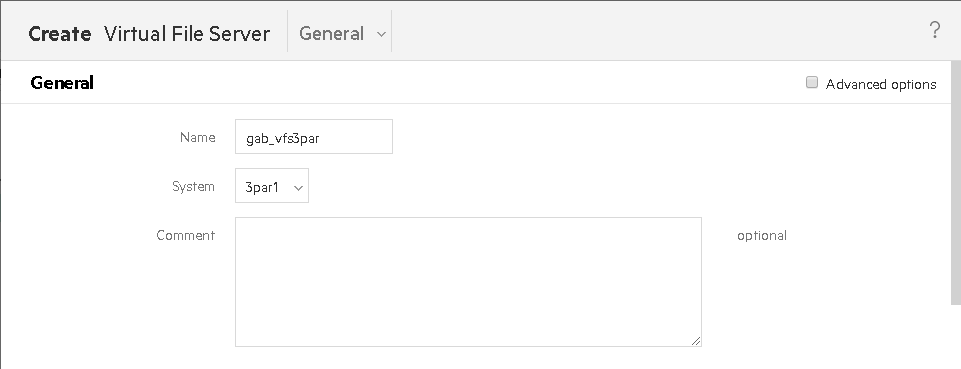
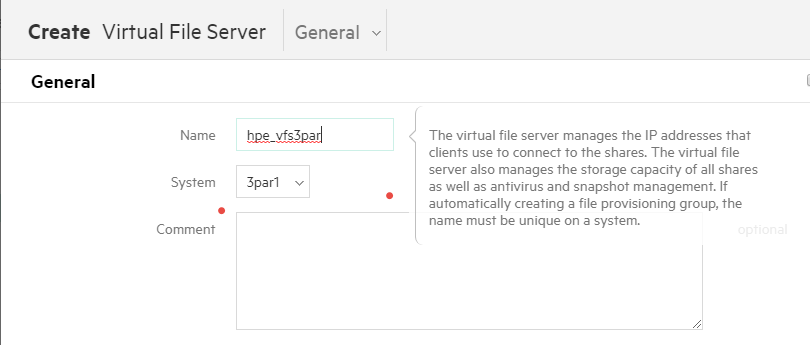
NFS 3PAR

diff --git a/.vuepress/config.js b/.vuepress/config.js
@@ -123,6 +123,7 @@ module.exports = {
       {
         title: 'Configuring Storage',
         children: [
+          'storage/nfs-provisioner-3PAR',
           'storage/nfs-provisioner',
           'storage/wordpress-mysql-nfs'
         ]

diff --git a/storage/nfs-provisioner-3PAR.md b/storage/nfs-provisioner-3PAR.md
@@ -1,0 +1,30 @@
+# Using HPE 3PAR when deploying NFS provisioner for Kubernetes
+
+## Prerequisites
+
+-   Configure the variables described in the section `Kubernetes Persistent Volume configuration`
+-   Install the `kubectl` binary on your Ansible box
+-   Install the UCP Client bundle for the `admin` user
+-   Confirm that you can connect to the cluster by running a test command, for example, `kubectl get nodes`
+
+
+
+
+##Setting up HPE 3PAR
+The following section outlines the steps you need to follow in order to configure a Virtual File Server and a share for use by the Kubernetes NFS provisioner.
+
+Log in to the HPE 3PAR StoreServ Management console and create a virtual file server (VFS):
+
+1. In the `General` section, specify a name, in this instance `hpe_vfs3par`
+
+    !["Figure.  Create Virtual File Server - General"][media-3par-create-vfs-png]
+
+    **Figure.**  Create Virtual File Server - General
+
+2. 
+
+
+
+
+
+[media-3par-create-vfs-png]:<../media/3par-create-vfs.png> "Figure.  Create Virtual File Server - General"

diff --git a/storage/nfs-provisioner.md b/storage/nfs-provisioner.md
@@ -1,4 +1,4 @@
-# Deploying the NFS provisioner for Kubernetes
+# Using NFS VM when deploying NFS provisioner for Kubernetes
 
 ## Prerequisites
 
@@ -9,7 +9,7 @@
 
 
 
-## Using NFS VM for post-deployment verification
+## Configurating NFS VM for post-deployment verification
 
 In this example, it is assumed that the relevant variables are configured as follows:
 
